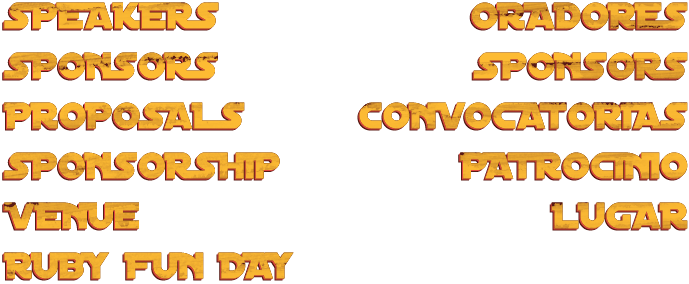
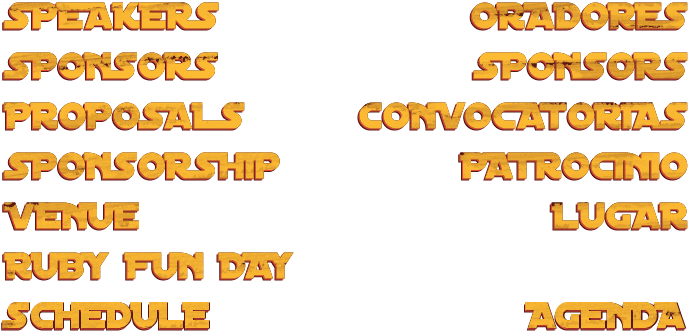
Agenda y Schedule titles.

diff --git a/views/stylesheets/_schedule.sass b/views/stylesheets/_schedule.sass
@@ -4,11 +4,11 @@ section#schedule
   padding-top: 40px
 
   h1.title
-    background-position: left -150px
-    width: 282px
+    background-position: left -300px
+    width: 212px
     &.es
-      background-position: right -150px
-      width: 232px
+      background-position: right -300px
+      width: 165px
 
   .table_container
     @include box-shadow(1px 1px 0 rgba(255,255,255,0.2))

diff --git a/views/stylesheets/app.sass b/views/stylesheets/app.sass
@@ -473,6 +473,7 @@ body
         right: auto
       text-align: center
       background-image: url("../images/titles.png")
+      background-repeat: no-repeat
       height: 36px
       text-indent: -30000px
       

diff --git a/app.rb b/app.rb
@@ -22,7 +22,6 @@ Cuba.plugin Cuba::R18n
 
 # ADMIN
 require "./routes/public"
-require "./routes/api"
 
 require "./models/video"
 require "./models/promotional_video"
@@ -37,10 +36,6 @@ Cuba.define do
     res.headers["Cache-Control"] = "public, max-age=29030400" if req.query_string =~ /[0-9]{10}/
     res.headers["Content-Type"] = "text/css; charset=utf-8"
     res.write render("views/stylesheets/#{file}.sass", {}, load_paths: SASS_LOAD_PATHS )
-  end
-
-  on "api" do
-    run Api
   end
 
   on default do
